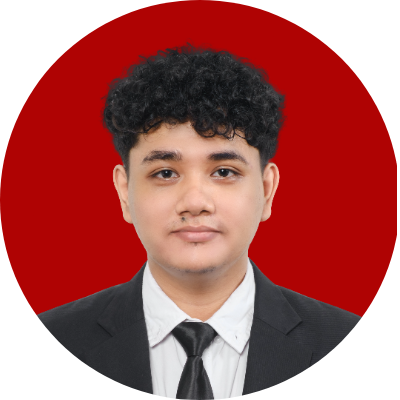
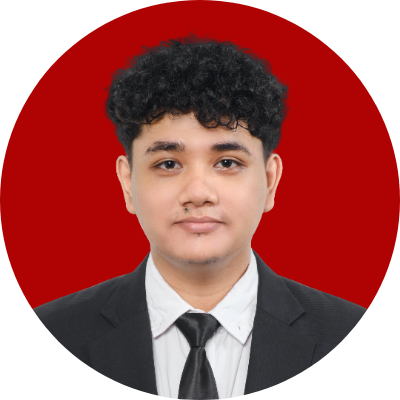
feat: pasang foto profil baru, urutkan foto proyek POS dari 7 ke 1, dan optimasi proporsi screenshot agar tidak ter-zoom

diff --git a/data/projects-data.js b/data/projects-data.js
@@ -12,35 +12,35 @@ const PORTFOLIO_PROJECTS = [
     subtitle: "Aplikasi Point of Sale (POS) & Manajemen Kasir Toko berbasis Laravel, PHP, MySQL, JavaScript, dan Tailwind CSS",
     year: "2026",
     status: "Production Ready",
-    bannerImage: "assets/projects/pos (1).png",
+    bannerImage: "assets/projects/pos (7).png",
     images: [
       {
-        src: "assets/projects/pos (1).png",
-        caption: "Tampilan Utama Dashboard Manajemen Transaksi & Ringkasan Toko"
-      },
-      {
-        src: "assets/projects/pos (2).png",
-        caption: "Menu Kasir Interaktif (Point of Sale) & Keranjang Belanja Transaksi Cepat"
-      },
-      {
-        src: "assets/projects/pos (3).png",
-        caption: "Katalog & Manajemen Stok Barang / Produk Toko"
-      },
-      {
-        src: "assets/projects/pos (4).png",
-        caption: "Rekapitulasi Laporan Penjualan, Keuntungan, & Grafik Arus Kas"
-      },
-      {
-        src: "assets/projects/pos (5).png",
-        caption: "Pengaturan Profil, Manajemen Akun Kasir, & Hak Akses Admin"
+        src: "assets/projects/pos (7).png",
+        caption: "Riwayat Lengkap Log Transaksi & Mutasi Kas Masuk / Keluar"
       },
       {
         src: "assets/projects/pos (6).png",
         caption: "Pratinjau Cetak Struk Nota Belanja & Invoice Transaksi Kasir"
       },
       {
-        src: "assets/projects/pos (7).png",
-        caption: "Riwayat Lengkap Log Transaksi & Mutasi Kas Masuk / Keluar"
+        src: "assets/projects/pos (5).png",
+        caption: "Pengaturan Profil, Manajemen Akun Kasir, & Hak Akses Admin"
+      },
+      {
+        src: "assets/projects/pos (4).png",
+        caption: "Rekapitulasi Laporan Penjualan, Keuntungan, & Grafik Arus Kas"
+      },
+      {
+        src: "assets/projects/pos (3).png",
+        caption: "Katalog & Manajemen Stok Barang / Produk Toko"
+      },
+      {
+        src: "assets/projects/pos (2).png",
+        caption: "Menu Kasir Interaktif (Point of Sale) & Keranjang Belanja Transaksi Cepat"
+      },
+      {
+        src: "assets/projects/pos (1).png",
+        caption: "Tampilan Utama Dashboard Manajemen Transaksi & Ringkasan Toko"
       }
     ],
     overview: "POS TOKO YOGI adalah sistem Point of Sale (POS) dan manajemen toko yang dirancang untuk mempermudah transaksi kasir harian, pelacakan stok produk secara real-time, pencatatan mutasi kas, serta pembuatan laporan penjualan dan keuangan toko secara cepat, akurat, dan terstruktur.",

diff --git a/js/main.js b/js/main.js
@@ -147,26 +147,22 @@ function setupMeteorTrigger() {
   }
 }
 
-// Cek apakah ada file foto 'assets/profile.jpg' atau 'assets/profile.png'
+// Cek ketersediaan file foto profil nyata 'assets/profile.png' atau 'assets/profile.jpg'
 function checkRealProfilePhoto() {
   const avatarImg = document.getElementById("developer-avatar");
   if (!avatarImg) return;
 
-  // Coba cek ketersediaan assets/profile.jpg
-  const testImg = new Image();
-  testImg.src = "assets/profile.jpg";
-  testImg.onload = function () {
-    // Jika file nyata ditemukan di folder assets/profile.jpg, gunakan langsung!
-    avatarImg.src = "assets/profile.jpg";
+  const testPng = new Image();
+  testPng.src = "assets/profile.png";
+  testPng.onload = function () {
+    avatarImg.src = "assets/profile.png";
   };
-  testImg.onerror = function () {
-    // Jika tidak ada, cek profile.png
-    const testPng = new Image();
-    testPng.src = "assets/profile.png";
-    testPng.onload = function () {
-      avatarImg.src = "assets/profile.png";
+  testPng.onerror = function () {
+    const testJpg = new Image();
+    testJpg.src = "assets/profile.jpg";
+    testJpg.onload = function () {
+      avatarImg.src = "assets/profile.jpg";
     };
-    // Jika keduanya tidak ada, avatarImg tetap menggunakan assets/profile.svg yang sudah sangat rapi
   };
 }
 

diff --git a/css/style.css b/css/style.css
@@ -971,10 +971,11 @@ button {
   width: 100%;
   aspect-ratio: 16 / 10;
   overflow: hidden;
-  background: #04060c;
+  background: #03060f;
   display: flex;
   align-items: center;
   justify-content: center;
+  padding: 0.5rem;
 }
 
 .card-gallery-pill {
@@ -998,13 +999,14 @@ button {
 .project-img-preview {
   width: 100%;
   height: 100%;
-  object-fit: cover;
-  object-position: top center;
-  transition: transform 0.5s cubic-bezier(0.16, 1, 0.3, 1);
+  object-fit: contain;
+  object-position: center;
+  border-radius: calc(var(--radius-sm) - 2px);
+  transition: transform 0.4s cubic-bezier(0.16, 1, 0.3, 1);
 }
 
 .project-card-orbit:hover .project-img-preview {
-  transform: scale(1.04);
+  transform: scale(1.02);
 }
 
 .image-overlay-glow {

diff --git a/index.html b/index.html
@@ -126,7 +126,7 @@
               <!-- Foto Developer -->
               <img 
                 id="developer-avatar" 
-                src="assets/profile.svg" 
+                src="assets/profile.png" 
                 alt="Foto Profil Yogi Fernando" 
                 class="developer-portrait-img"
               />
